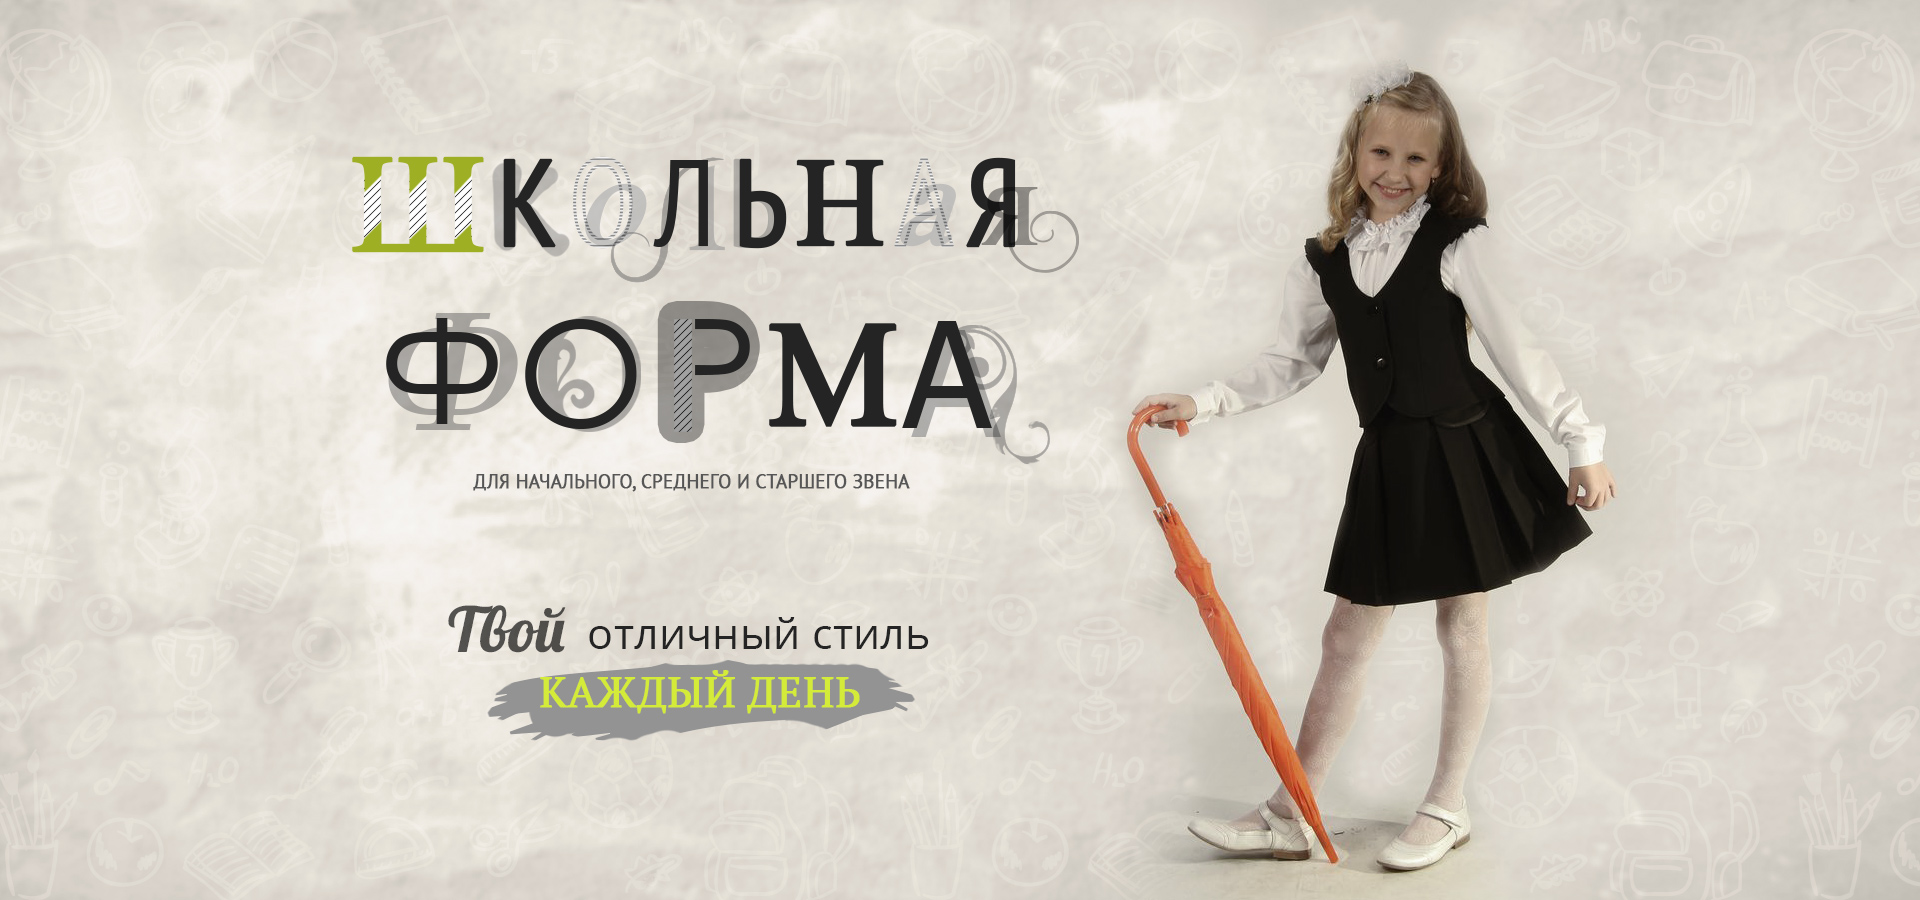
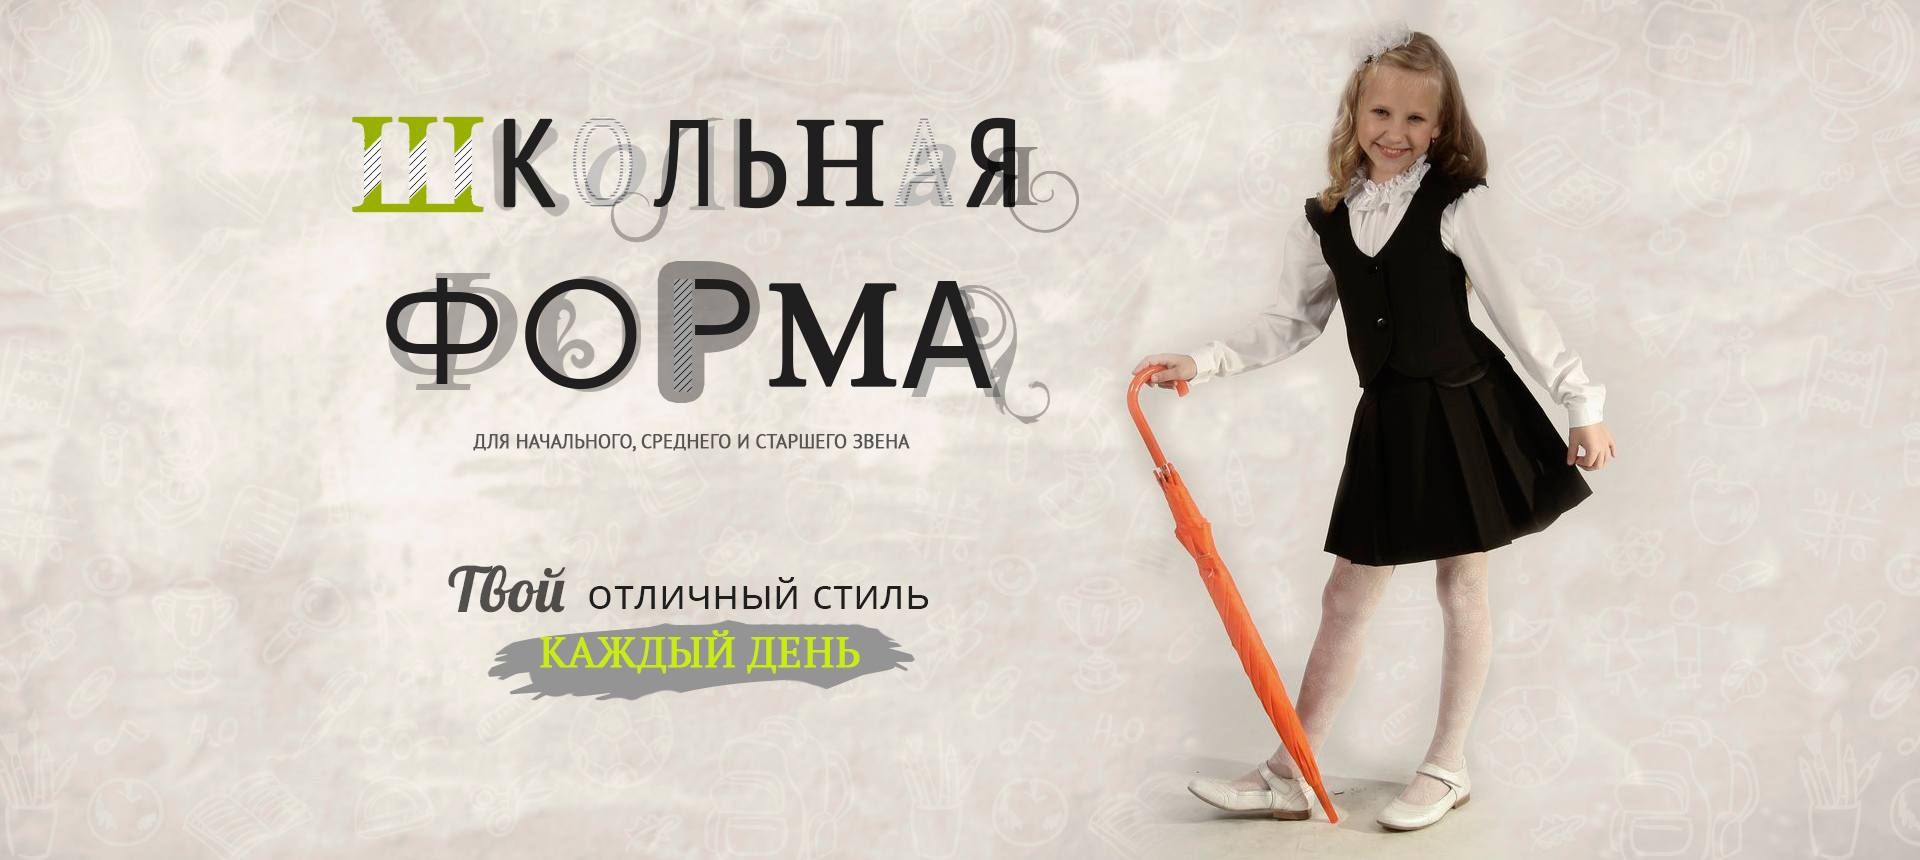
v1

diff --git a/css/main.css b/css/main.css
@@ -1878,9 +1878,47 @@ label {
     padding-left: 80px; } }
 
 .slider {
-  position: relative; }
+  overflow: hidden;
+  position: relative;
+  max-height: 353px; }
   .slider .slider__body {
     position: relative; }
+  .slider .slider-nav {
+    top: 50%;
+    width: 35px;
+    height: 68px;
+    z-index: 100;
+    cursor: pointer;
+    margin-top: -34px;
+    position: absolute;
+    background: url("../img/slider_nav.png") no-repeat; }
+    .slider .slider-nav.prev {
+      left: 20px;
+      background-position: 0 0; }
+      .slider .slider-nav.prev:hover {
+        background-position: 0 -68px; }
+    .slider .slider-nav.next {
+      right: 20px;
+      background-position: -35px 0; }
+      .slider .slider-nav.next:hover {
+        background-position: -35px -68px; }
+  .slider .btn-down {
+    left: 50%;
+    width: 67px;
+    height: 35px;
+    bottom: 25px;
+    cursor: pointer;
+    margin-left: -34px;
+    position: absolute;
+    background: url("../img/slider_nav.png") 0 -170px no-repeat; }
+    .slider .btn-down:hover {
+      background-position: 0 -135px; }
+  @media (min-width: 768px) {
+    .slider {
+      max-height: 723px; } }
+  @media (min-width: 1620px) {
+    .slider {
+      max-height: 860px; } }
 
 .promo {
   text-align: center;

diff --git a/scss/_slider.scss b/scss/_slider.scss
@@ -1,11 +1,65 @@
 .slider {
+	overflow: hidden;
 	position: relative;
+	max-height: 353px;
 
 	.slider__body {
 		position: relative;
 	}
 
-	.slider__item {
+	.slider-nav {
+		top: 50%;
+		width: 35px;
+		height: 68px;
+		z-index: 100;
+		cursor: pointer;
+		margin-top: -34px;
+		position: absolute;
+		background: url("../img/slider_nav.png") no-repeat;
 
+		&.prev {
+			left: 20px;
+			background-position: 0 0;
+
+			&:hover {
+				background-position: 0 -68px;
+			}
+		}
+
+		&.next {
+			right: 20px;
+			background-position: -35px 0;
+
+			&:hover {
+				background-position: -35px -68px;
+			}
+		}
+	}
+
+	.btn-down{
+		left: 50%;
+		width: 67px;
+		height: 35px;
+		bottom: 25px;
+		cursor: pointer;
+		margin-left: -34px;
+		position: absolute;
+		background: url("../img/slider_nav.png") 0 -170px no-repeat;
+
+		&:hover {
+			background-position: 0 -135px;
+		}
+	}
+
+	@media (min-width: $screen-sm-min) {
+		max-height: 723px;
+	}
+
+	@media (min-width: $screen-md-min) {
+
+	}
+
+	@media (min-width: $screen-lg-min) {
+		max-height: 860px;
 	}
 }

diff --git a/index.html b/index.html
@@ -104,7 +104,13 @@
                 <div class="slider__item">
                     <img class="img-responsive" src="img/slider01.jpg" alt="">
                 </div>
+                <div class="slider__item">
+                    <img class="img-responsive" src="img/slider02.jpg" alt="">
+                </div>
             </div>
+            <span class="slider-nav prev"></span>
+            <span class="slider-nav next"></span>
+            <a href="#" class="btn-down"></a>
         </div>
 
         <section class="promo">

diff --git a/js/main.js b/js/main.js
@@ -96,6 +96,26 @@ $(function() {
 
 //  Sliders
 
+$('.slider__body').slick({
+    arrows: false,
+    autoplay: true,
+    dots: false,
+    autoplaySpeed: 4000,
+    slidesToShow: 1,
+    slidesToScroll: 1
+});
+
+
+
+$('.slider .prev').click(function(){
+    $('.slider__body').slick('slickPrev');
+});
+
+$('.slider .next').click(function(){
+    $('.slider__body').slick('slickNext');
+});
+
+
 $('.promoSlider__new').slick({
     arrows: false,
     autoplay: true,
